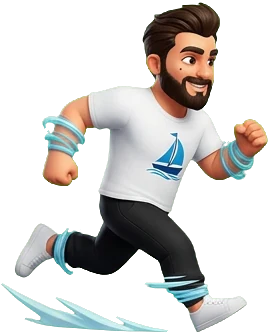
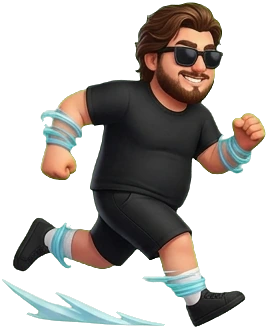
MUSA: Avcı Nazif (av tuzağı), Yalancı Abdullah (yalan atma), yeni Timur/Abdullah çizimleri, Full HD
Claude-Session: https://claude.ai/code/session_01HmmbUMm2WsFfV26x7CUR19

diff --git a/spiel/musa.html b/spiel/musa.html
@@ -79,7 +79,7 @@ body.menu #tb{display:none}
 window.__dbg=()=>({game,P});
 const W=960,H=540,GROUND=470;
 const cv=document.getElementById('c'),ctx=cv.getContext('2d');
-const DPR=Math.min(2,window.devicePixelRatio||1);cv.width=W*DPR;cv.height=H*DPR;ctx.setTransform(DPR,0,0,DPR,0,0);ctx.imageSmoothingQuality='high';
+const DPR=2;/* Full HD 1920x1080 */cv.width=W*DPR;cv.height=H*DPR;ctx.setTransform(DPR,0,0,DPR,0,0);ctx.imageSmoothingQuality='high';
 const stage=document.getElementById('stage'),controls=document.getElementById('controls');
 const overlay=document.getElementById('overlay'),card=document.getElementById('card');
 
@@ -90,13 +90,13 @@ const ROSTER=[
  {kind:'kemal',name:'KÜRT KEMAL',tag:'Dağ Aslanı',sp:'DAĞ YUMRUĞU',spType:'dash',bar:'#ff7a2a',spd:.84,pow:1.2,hp:115,spark:'#ffb070'},
  {kind:'mevlut',name:'MEVLÜT',tag:'Demir Kafa',sp:'DEMİR KAFA',spType:'dash',bar:'#c9d3e0',spd:1,pow:1.08,hp:105,spark:'#ffffff'},
  {kind:'timur',name:'TİMUR',tag:'Teknoloji Ustası',sp:'JARVIS LAZERİ',spType:'proj',proj:'fx_laser',pw:170,bar:'#2fe6ff',spd:1.15,pow:.95,hp:96,spark:'#9ff6ff'},
- {kind:'nazif',name:'CAMCI NAZİF',tag:'Cam Ustası',sp:'CAM FIRTINASI',spType:'proj',proj:'fx_glass',pw:120,bar:'#bfe8ff',spd:1.12,pow:.95,hp:98,spark:'#e6f7ff'},
- {kind:'abdullah',name:'ABDULLAH',tag:'Rüzgâr Ayak',sp:'KASIRGA TEKME',spType:'dash',bar:'#7fd8ff',spd:1.2,pow:.92,hp:95,spark:'#c8f2ff'},
+  {kind:'nazif',name:'AVCI NAZİF',tag:'Usta Avcı',sp:'AV TUZAĞI',spType:'net',bar:'#a8d66b',spd:1.1,pow:1,hp:102,spark:'#e8f5c8',spDmg:12,shout:['Av başladı!','Kaçamazsın!']},
+ {kind:'abdullah',name:'ABDULLAH',tag:'Yalan Ustası',sp:'YALAN ATMA',spType:'lie',bar:'#7fd8ff',spd:1.2,pow:.92,hp:95,spark:'#c8f2ff',spDmg:10,shout:['Bana güven abi!','Yemin ederim!','Valla doğru!']},
  {kind:'storm',name:'KARA FIRTINA',tag:'Fırtına Kaptanı',sp:'ŞİMŞEK',spType:'proj',proj:'fx_bolt',pw:170,flip:true,bar:'#ffd84a',comp:'fx_cloud',spd:1,pow:1,hp:100,spark:'#ffe066'}
 ];
 const RK=k=>ROSTER.find(r=>r.kind===k);
 let PICK=['musa','storm'];
-const SPI={musa:'🐼',cevat:'🔮',dursun:'🔨',kemal:'⛰',mevlut:'💥',timur:'🤖',nazif:'💎',abdullah:'🌪',storm:'⚡'};
+const SPI={musa:'🐼',cevat:'🔮',dursun:'🔨',kemal:'⛰',mevlut:'💥',timur:'🤖',nazif:'🏹',abdullah:'🤥',storm:'⚡'};
 const ATK={
  punch:{start:5,active:5,rec:9,range:150,dmg:6,push:4},
  kick:{start:9,active:6,rec:14,range:170,dmg:10,push:7},
@@ -145,11 +145,12 @@ function damage(o,d,dir,push,att){
 }
 
 function update(f,inp,pin,o){
+ if(f.confused>0){f.confused--;inp={...inp,left:inp.right,right:inp.left}}
  const onG=f.y>=GROUND;
  if(f.flash>0)f.flash--;if(f.sayT>0)f.sayT--;
  if(f.state==='ko'||f.state==='win'){f.t++;phys(f,true);return}
  if(game.state!=='fight'){f.vx=0;f.state=onG?'idle':'jump';phys(f);return}
- if(f.stun>0){f.stun--;if(f.dizzy>0)f.dizzy--;phys(f,true);if(!f.stun){f.state='idle';f.dizzy=0}return}
+ if(f.stun>0){f.stun--;if(f.dizzy>0)f.dizzy--;if(f.netted>0)f.netted--;phys(f,true);if(!f.stun){f.state='idle';f.dizzy=0}return}
  if(f.atk){
   const a=ATK[f.atk];f.atkT++;
   if(f.atk!=='special'&&!f.hitDone&&f.atkT>a.start&&f.atkT<=a.start+a.active){
@@ -184,6 +185,8 @@ function phys(f,fric){
 }
 function fire(f){
  const L=f.look;
+ if(L.spType==='net'){proj.push({x:f.x+f.facing*110,y:f.y-170,vx:f.facing*10,owner:f,kind:L.kind,t:0,net:1});return}
+ if(L.spType==='lie'){const LIES=['Arkana bak, Musa geliyor!','Yerde 100 lira var!','Annen çağırıyor!','Araban çekiliyor!','Hoca seni arıyor!','Çaycuma\'da kar yağıyor!','Ben hiç yenilmedim!','Ayakkabının bağı çözülmüş!'];proj.push({x:f.x+f.facing*100,y:f.y-200,vx:f.facing*8,owner:f,kind:L.kind,t:0,txt:LIES[Math.random()*LIES.length|0]});return}
  if(L.spType==='quake'){proj.push({x:f.x+f.facing*120,y:GROUND-45,vx:f.facing*10,owner:f,kind:L.kind,t:0,ground:1});shake=12;return}
  proj.push({x:f.x+f.facing*110,y:f.y-150,vx:f.facing*(L.kind==='timur'?13:9),owner:f,kind:L.kind,t:0});
 }
@@ -257,7 +260,9 @@ function step(){
  for(const p of proj){
   p.x+=p.vx;p.t++;
   const o=p.owner===P[0]?P[1]:P[0];
-  if(!p.dead&&Math.abs(p.x-o.x)<60&&o.y>GROUND-(p.ground?35:80)&&o.state!=='ko'){p.dead=1;{const wasBlk=o.state==='block';damage(o,(p.owner.look.spDmg||18)*(p.ground?1.1:1),Math.sign(p.vx),11,p.owner);if(p.owner.look.stunHit&&!wasBlk&&o.state==='hit'){o.stun=p.owner.look.stunHit;o.dizzy=p.owner.look.stunHit;o.vx*=.3;pop(o.x,o.y-330,'SERSEMLEDİ!','#ffd86b',true)}}spark(p.x,p.y,p.owner.look.spark,22)}
+  if(!p.dead&&Math.abs(p.x-o.x)<60&&o.y>GROUND-(p.ground?35:80)&&o.state!=='ko'){p.dead=1;{const wasBlk=o.state==='block';damage(o,(p.owner.look.spDmg||18)*(p.ground?1.1:1),Math.sign(p.vx),11,p.owner);if(p.owner.look.spType==='net'&&!wasBlk){o.stun=110;o.netted=110;pop(o.x,o.y-330,'AĞA DÜŞTÜ!','#a8d66b',true)}
+if(p.owner.look.spType==='lie'&&!wasBlk){o.confused=150;pop(o.x,o.y-330,'KANDIRILDI! 🤯','#7fd8ff',true)}
+if(p.owner.look.stunHit&&!wasBlk&&o.state==='hit'){o.stun=p.owner.look.stunHit;o.dizzy=p.owner.look.stunHit;o.vx*=.3;pop(o.x,o.y-330,'SERSEMLEDİ!','#ffd86b',true)}}spark(p.x,p.y,p.owner.look.spark,22)}
   if(p.ground&&time%3===0)parts.push({x:p.x,y:GROUND-10,vx:(Math.random()-.5)*4,vy:-3-Math.random()*4,life:20,c:'#b08860'});
   if(p.x<-80||p.x>W+80)p.dead=1;
  }
@@ -281,7 +286,7 @@ function prog(f){
  if(t<=a.start)return t/a.start;if(t<=a.start+a.active)return 1;return Math.max(0,1-(t-a.start-a.active)/a.rec);
 }
 
-const META={"musa": {"idle": {"w": 266, "h": 342, "ax": 115.0}, "walk": {"w": 251, "h": 345, "ax": 116.0}, "punch": {"w": 332, "h": 339, "ax": 141.0}, "kick": {"w": 311, "h": 343, "ax": 132.0}, "block": {"w": 231, "h": 342, "ax": 107.0}, "hit": {"w": 290, "h": 342, "ax": 124.0}, "special": {"w": 374, "h": 345, "ax": 158.0}, "win": {"w": 230, "h": 380, "ax": 94.0}, "head": [84, 1, 88, 88]}, "storm": {"idle": {"w": 247, "h": 360, "ax": 104.0}, "walk": {"w": 217, "h": 373, "ax": 97.0}, "punch": {"w": 305, "h": 365, "ax": 108.0}, "kick": {"w": 306, "h": 357, "ax": 128.0}, "block": {"w": 204, "h": 361, "ax": 87.0}, "hit": {"w": 212, "h": 357, "ax": 99.0}, "special": {"w": 323, "h": 360, "ax": 90.0}, "win": {"w": 141, "h": 379, "ax": 74.0}, "head": [97, 0, 93, 93]}, "fx": {"panda": {"w": 308, "h": 244, "ax": 158.5}, "wave": {"w": 253, "h": 259, "ax": 59.0}, "bolt": {"w": 285, "h": 124, "ax": 150.0}, "cloud": {"w": 212, "h": 177, "ax": 106.0}, "orb": {"w": 276, "h": 180, "ax": 144.0}, "laser": {"w": 282, "h": 75, "ax": 148.0}, "glass": {"w": 227, "h": 145, "ax": 122.0}, "rocks": {"w": 297, "h": 240, "ax": 144.0}}, "cevat": {"idle": {"w": 276, "h": 346, "ax": 112.0}, "walk": {"w": 256, "h": 345, "ax": 121.0}, "punch": {"w": 356, "h": 341, "ax": 131.0}, "kick": {"w": 307, "h": 343, "ax": 138.0}, "block": {"w": 308, "h": 344, "ax": 121.0}, "hit": {"w": 280, "h": 340, "ax": 118.0}, "special": {"w": 381, "h": 337, "ax": 113.0}, "win": {"w": 239, "h": 386, "ax": 113.0}, "head": [77, 3, 89, 89]}, "mevlut": {"idle": {"w": 263, "h": 332, "ax": 115.0}, "walk": {"w": 248, "h": 337, "ax": 118.0}, "punch": {"w": 321, "h": 331, "ax": 142.0}, "kick": {"w": 310, "h": 335, "ax": 131.0}, "block": {"w": 229, "h": 335, "ax": 107.0}, "hit": {"w": 287, "h": 329, "ax": 126.0}, "special": {"w": 362, "h": 227, "ax": 191.0}, "win": {"w": 222, "h": 381, "ax": 92.0}, "head": [82, 0, 86, 86]}, "dursun": {"idle": {"w": 273, "h": 358, "ax": 105.0}, "walk": {"w": 280, "h": 340, "ax": 142.0}, "punch": {"w": 323, "h": 334, "ax": 135.0}, "kick": {"w": 313, "h": 338, "ax": 160.0}, "block": {"w": 287, "h": 349, "ax": 131.0}, "hit": {"w": 280, "h": 338, "ax": 135.0}, "special": {"w": 387, "h": 322, "ax": 143.0}, "win": {"w": 290, "h": 371, "ax": 189.0}, "head": [93, 18, 93, 93]}, "kemal": {"idle": {"w": 268, "h": 334, "ax": 114.0}, "walk": {"w": 246, "h": 343, "ax": 118.0}, "punch": {"w": 330, "h": 334, "ax": 143.0}, "kick": {"w": 313, "h": 338, "ax": 134.0}, "block": {"w": 250, "h": 336, "ax": 110.0}, "hit": {"w": 288, "h": 334, "ax": 124.0}, "special": {"w": 377, "h": 319, "ax": 143.0}, "win": {"w": 191, "h": 351, "ax": 94.0}, "head": [80, 0, 86, 86]}, "nazif": {"idle": {"w": 212, "h": 327, "ax": 79.0}, "walk": {"w": 207, "h": 333, "ax": 103.0}, "punch": {"w": 323, "h": 327, "ax": 101.0}, "kick": {"w": 289, "h": 332, "ax": 145.0}, "block": {"w": 240, "h": 353, "ax": 150.0}, "hit": {"w": 233, "h": 312, "ax": 98.0}, "special": {"w": 380, "h": 315, "ax": 103.0}, "win": {"w": 212, "h": 331, "ax": 111.5}, "head": [51, 0, 85, 85]}, "timur": {"idle": {"w": 192, "h": 342, "ax": 82.0}, "walk": {"w": 168, "h": 350, "ax": 84.0}, "punch": {"w": 316, "h": 341, "ax": 102.0}, "kick": {"w": 272, "h": 332, "ax": 100.0}, "block": {"w": 260, "h": 342, "ax": 95.0}, "hit": {"w": 254, "h": 326, "ax": 97.0}, "special": {"w": 422, "h": 345, "ax": 82.0}, "win": {"w": 202, "h": 353, "ax": 77.0}, "head": [45, 0, 88, 88]}, "abdullah": {"idle": {"w": 197, "h": 342, "ax": 91.0}, "walk": {"w": 271, "h": 335, "ax": 148.0}, "punch": {"w": 287, "h": 341, "ax": 105.0}, "kick": {"w": 308, "h": 348, "ax": 108.0}, "block": {"w": 175, "h": 346, "ax": 73.0}, "hit": {"w": 250, "h": 336, "ax": 98.0}, "special": {"w": 319, "h": 333, "ax": 126.0}, "win": {"w": 185, "h": 375, "ax": 84.0}, "head": [62, 0, 88, 88]}};
+const META={"musa":{"idle":{"w":266,"h":342,"ax":115.0},"walk":{"w":251,"h":345,"ax":116.0},"punch":{"w":332,"h":339,"ax":141.0},"kick":{"w":311,"h":343,"ax":132.0},"block":{"w":231,"h":342,"ax":107.0},"hit":{"w":290,"h":342,"ax":124.0},"special":{"w":374,"h":345,"ax":158.0},"win":{"w":230,"h":380,"ax":94.0},"head":[84,1,88,88]},"storm":{"idle":{"w":247,"h":360,"ax":104.0},"walk":{"w":217,"h":373,"ax":97.0},"punch":{"w":305,"h":365,"ax":108.0},"kick":{"w":306,"h":357,"ax":128.0},"block":{"w":204,"h":361,"ax":87.0},"hit":{"w":212,"h":357,"ax":99.0},"special":{"w":323,"h":360,"ax":90.0},"win":{"w":141,"h":379,"ax":74.0},"head":[97,0,93,93]},"fx":{"panda":{"w":308,"h":244,"ax":158.5},"wave":{"w":253,"h":259,"ax":59.0},"bolt":{"w":285,"h":124,"ax":150.0},"cloud":{"w":212,"h":177,"ax":106.0},"orb":{"w":276,"h":180,"ax":144.0},"laser":{"w":282,"h":75,"ax":148.0},"glass":{"w":227,"h":145,"ax":122.0},"rocks":{"w":297,"h":240,"ax":144.0}},"cevat":{"idle":{"w":276,"h":346,"ax":112.0},"walk":{"w":256,"h":345,"ax":121.0},"punch":{"w":356,"h":341,"ax":131.0},"kick":{"w":307,"h":343,"ax":138.0},"block":{"w":308,"h":344,"ax":121.0},"hit":{"w":280,"h":340,"ax":118.0},"special":{"w":381,"h":337,"ax":113.0},"win":{"w":239,"h":386,"ax":113.0},"head":[77,3,89,89]},"mevlut":{"idle":{"w":263,"h":332,"ax":115.0},"walk":{"w":248,"h":337,"ax":118.0},"punch":{"w":321,"h":331,"ax":142.0},"kick":{"w":310,"h":335,"ax":131.0},"block":{"w":229,"h":335,"ax":107.0},"hit":{"w":287,"h":329,"ax":126.0},"special":{"w":362,"h":227,"ax":191.0},"win":{"w":222,"h":381,"ax":92.0},"head":[82,0,86,86]},"dursun":{"idle":{"w":273,"h":358,"ax":105.0},"walk":{"w":280,"h":340,"ax":142.0},"punch":{"w":323,"h":334,"ax":135.0},"kick":{"w":313,"h":338,"ax":160.0},"block":{"w":287,"h":349,"ax":131.0},"hit":{"w":280,"h":338,"ax":135.0},"special":{"w":387,"h":322,"ax":143.0},"win":{"w":290,"h":371,"ax":189.0},"head":[93,18,93,93]},"kemal":{"idle":{"w":268,"h":334,"ax":114.0},"walk":{"w":246,"h":343,"ax":118.0},"punch":{"w":330,"h":334,"ax":143.0},"kick":{"w":313,"h":338,"ax":134.0},"block":{"w":250,"h":336,"ax":110.0},"hit":{"w":288,"h":334,"ax":124.0},"special":{"w":377,"h":319,"ax":143.0},"win":{"w":191,"h":351,"ax":94.0},"head":[80,0,86,86]},"nazif":{"idle":{"w":298,"h":342,"ax":111.0},"walk":{"w":288,"h":342,"ax":109.0},"punch":{"w":326,"h":364,"ax":169.0},"kick":{"w":314,"h":343,"ax":132.0},"block":{"w":295,"h":356,"ax":138.0},"hit":{"w":321,"h":341,"ax":141.0},"special":{"w":396,"h":344,"ax":162.0},"win":{"w":258,"h":390,"ax":110.0},"head":[92,4,88,88]},"timur":{"idle":{"w":192,"h":344,"ax":82.0},"walk":{"w":167,"h":351,"ax":84.0},"punch":{"w":315,"h":343,"ax":102.0},"kick":{"w":270,"h":334,"ax":98.0},"block":{"w":260,"h":345,"ax":94.0},"hit":{"w":251,"h":327,"ax":96.0},"special":{"w":422,"h":347,"ax":82.0},"win":{"w":202,"h":355,"ax":77.0},"head":[62,2,90,90]},"abdullah":{"idle":{"w":198,"h":337,"ax":91.0},"walk":{"w":268,"h":330,"ax":145.0},"punch":{"w":287,"h":337,"ax":106.0},"kick":{"w":309,"h":342,"ax":107.0},"block":{"w":176,"h":342,"ax":75.0},"hit":{"w":251,"h":331,"ax":100.0},"special":{"w":324,"h":331,"ax":129.0},"win":{"w":186,"h":375,"ax":88.0},"head":[62,0,90,90]}};
 const IMG={};const BGS=['bg_meydan','bg_filyos','bg_meydan2'];
 function li(n,src){const i=new Image();i.decoding='async';i.src='musa/'+src;IMG[n]=i;return i}
 for(const ch of ROSTER.map(r=>r.kind))for(const p of ['idle','walk','punch','kick','block','hit','special','win'])li(ch+'_'+p,ch+'_'+p+'.webp');
@@ -338,11 +343,15 @@ function drawFighter(f){
  ctx.drawImage(im,-m.ax*K,-h,w,h);
  if(f.flash&&f.flash%2){ctx.globalCompositeOperation='lighter';ctx.globalAlpha=.55;ctx.drawImage(im,-m.ax*K,-h,w,h);ctx.globalCompositeOperation='source-over';ctx.globalAlpha=1}
  ctx.restore();
+ if(f.netted>0){ctx.save();ctx.translate(f.x,f.y-130);ctx.strokeStyle='#d9c28a';ctx.lineWidth=3;const r=110;ctx.globalAlpha=.9;for(let i=-4;i<=4;i++){ctx.beginPath();ctx.moveTo(i*r/4.5-20,-r);ctx.lineTo(i*r/4.5+20,r);ctx.moveTo(-r*.8,i*r/4.5);ctx.lineTo(r*.8,i*r/4.5+10);ctx.stroke()}ctx.restore()}
+ if(f.confused>0){ctx.font='900 30px system-ui';ctx.textAlign='center';ctx.fillStyle='#7fd8ff';ctx.fillText('?',f.x-26+Math.sin(time*.2)*6,f.y-285);ctx.fillText('?',f.x+22+Math.cos(time*.2)*6,f.y-300)}
  if(f.dizzy>0){for(let i=0;i<4;i++){const a=time*.12+i*Math.PI/2;ctx.font='22px system-ui';ctx.textAlign='center';ctx.fillText(i%2?'💫':'⭐',f.x+Math.cos(a)*42,f.y-262+Math.sin(a)*12)}}
  if(f.sayT>0&&f.say){ctx.save();ctx.globalAlpha=Math.min(1,f.sayT/15);ctx.font='900 22px system-ui';const tw=ctx.measureText(f.say).width+28,bx=f.x-tw/2,by=f.y-345;rr(bx,by,tw,40,14,'#fffbe8');ctx.beginPath();ctx.moveTo(f.x-8,by+40);ctx.lineTo(f.x+4,by+54);ctx.lineTo(f.x+10,by+40);ctx.fill();ctx.fillStyle='#5a3a00';ctx.textAlign='center';ctx.fillText(f.say,f.x,by+28);ctx.restore()}
 }
 function drawProj(p){
  const L=p.owner.look;
+ if(L.spType==='net'){ctx.save();ctx.translate(p.x,p.y);const r=Math.min(70,20+p.t*3);ctx.strokeStyle='#d9c28a';ctx.lineWidth=3;ctx.beginPath();ctx.arc(0,0,r,0,7);ctx.stroke();ctx.lineWidth=2;for(let i=-3;i<=3;i++){ctx.beginPath();ctx.moveTo(i*r/3.5,-r);ctx.lineTo(i*r/3.5,r);ctx.moveTo(-r,i*r/3.5);ctx.lineTo(r,i*r/3.5);ctx.stroke()}ctx.fillStyle='#8a6a3a';for(let a=0;a<6;a++){ctx.beginPath();ctx.arc(Math.cos(a)*r,Math.sin(a)*r,5,0,7);ctx.fill()}ctx.restore();return}
+ if(L.spType==='lie'){ctx.save();ctx.font='900 20px system-ui';const tw=ctx.measureText(p.txt).width+30,bx=p.x-tw/2,by=p.y-24+Math.sin(p.t*.3)*4;ctx.shadowColor='#7fd8ff';ctx.shadowBlur=14;rr(bx,by,tw,46,16,'#ffffff');ctx.shadowBlur=0;ctx.fillStyle='#ffffff';ctx.beginPath();ctx.moveTo(p.x-Math.sign(p.vx)*tw/2+Math.sign(p.vx)*14,by+40);ctx.lineTo(p.x-Math.sign(p.vx)*(tw/2+10),by+56);ctx.lineTo(p.x-Math.sign(p.vx)*tw/2+Math.sign(p.vx)*34,by+44);ctx.fill();ctx.fillStyle='#1b2b55';ctx.textAlign='center';ctx.fillText(p.txt,p.x,by+30);ctx.restore();return}
  if(L.kind==='cevat'){ctx.save();ctx.translate(p.x,p.y);const r=46+Math.sin(p.t*.5)*5;ctx.rotate(p.t*.08);for(let i=0;i<12;i++){ctx.rotate(Math.PI/6);ctx.fillStyle='rgba(255,236,150,.35)';ctx.fillRect(0,-3,r*1.6,6)}const g=ctx.createRadialGradient(0,0,4,0,0,r);g.addColorStop(0,'#ffffff');g.addColorStop(.35,'#fff3b0');g.addColorStop(1,'rgba(255,200,60,0)');ctx.fillStyle=g;ctx.beginPath();ctx.arc(0,0,r,0,7);ctx.fill();ctx.restore();return}
  const im=IMG[L.proj];if(!ok(im))return;
  ctx.save();ctx.translate(p.x,p.y);ctx.scale(Math.sign(p.vx)*(L.flip?-1:1),1);
@@ -488,7 +497,7 @@ function menu(){
  card.innerHTML=`<div class="hero"><img src="musa/musa_win.webp" alt=""><span class="vs">VS</span><img src="musa/storm_idle.webp" style="transform:scaleX(-1)" alt=""></div><h1>MUSA</h1><h2>Çaycuma'nın Kahramanı – Dövüş Oyunu</h2>
  <div id="ov2"><button class="big alt" id="m1">1 OYUNCU<br><small style="font-weight:600;font-size:13px">Bilgisayara karşı</small></button>
  <button class="big" id="m2">2 OYUNCU<br><small style="font-weight:600;font-size:13px">Aynı cihazda karşılıklı</small></button></div>
- <div class="help">9 karakter: Musa, Cevat Hoca, Kel Dursun, Kürt Kemal, Mevlüt, Timur, Abdullah, Camcı Nazif ve Kara Fırtına! Rakibi vur, <b>güç barını</b> doldur, sonra <b>özel hareketini</b> yap.<br>2 raundu kazanan şampiyon olur.<br>
+ <div class="help">9 karakter: Musa, Cevat Hoca, Kel Dursun, Kürt Kemal, Mevlüt, Timur, Abdullah, Avcı Nazif ve Kara Fırtına! Rakibi vur, <b>güç barını</b> doldur, sonra <b>özel hareketini</b> yap.<br>2 raundu kazanan şampiyon olur.<br>
  <b>Klavye</b> – 1. oyuncu: A/D yürü · W zıpla · S blok · F yumruk · G tekme · H özel<br>2. oyuncu: ← → yürü · ↑ zıpla · ↓ blok · K yumruk · L tekme · J özel</div>
  <a class="big" style="text-decoration:none;background:#ffffff1a;box-shadow:none" href="index.html">🏠 BUKO GAMES</a>`;
  document.getElementById('m1').onclick=()=>pick(0,'KARAKTERİNİ SEÇ',k=>{PICK[0]=k;pick(1,'RAKİBİNİ SEÇ (bilgisayar)',k2=>{PICK[1]=k2;diff()},true)});

diff --git a/spiel/index.html b/spiel/index.html
@@ -235,7 +235,7 @@ play:'<svg class="bi" viewBox="0 0 24 24"><path d="M7 4.8v14.4a1 1 0 0 0 1.5.9l1
     $('shr').onclick=e=>{ if (navigator.share && !inApp){ e.preventDefault(); navigator.share({text:t.shareText}).catch(()=>{}); } };
   }
   if(location.protocol==='file:'){$('g1453').href='https://xenosmart.de/spiel/1453/';$('gzip').href='https://xenosmart.de/spiel/zipzip/';}
-  function offDone(){try{return localStorage.getItem('bukoOffline')==='buko-v4'}catch(e){return false}}
+  function offDone(){try{return localStorage.getItem('bukoOffline')==='buko-v5'}catch(e){return false}}
   async function saveOffline(t){const b=$('offB');if(!b||b.disabled)return;b.disabled=true;
    try{const lst=await (await fetch('offline-files.json',{cache:'no-store'})).json();const c=await caches.open(lst.v);let n=0,bad=0;
     for(const f of lst.files){try{const r=await fetch(f,{cache:'reload'});if(r.ok)await c.put(new Request(new URL(f,location.href).href),r);else bad++}catch(e){bad++}n++;b.textContent=t.offP(Math.round(n/lst.files.length*100))}

diff --git a/spiel/sw.js b/spiel/sw.js
@@ -1,5 +1,5 @@
 /* Buko Games – offline cache (network-first, cache fallback) */
-const C='buko-v4';
+const C='buko-v5';
 const BASE=['./','index.html','offline-files.json','manifest.webmanifest','icon-192.png','buko-core.js'];
 self.addEventListener('install',e=>{e.waitUntil(caches.open(C).then(c=>Promise.all(BASE.map(u=>c.add(u).catch(()=>{})))).then(()=>self.skipWaiting()))});
 self.addEventListener('activate',e=>{e.waitUntil(caches.keys().then(ks=>Promise.all(ks.filter(k=>k.startsWith('buko-')&&k!==C).map(k=>caches.delete(k)))).then(()=>self.clients.claim()))});
